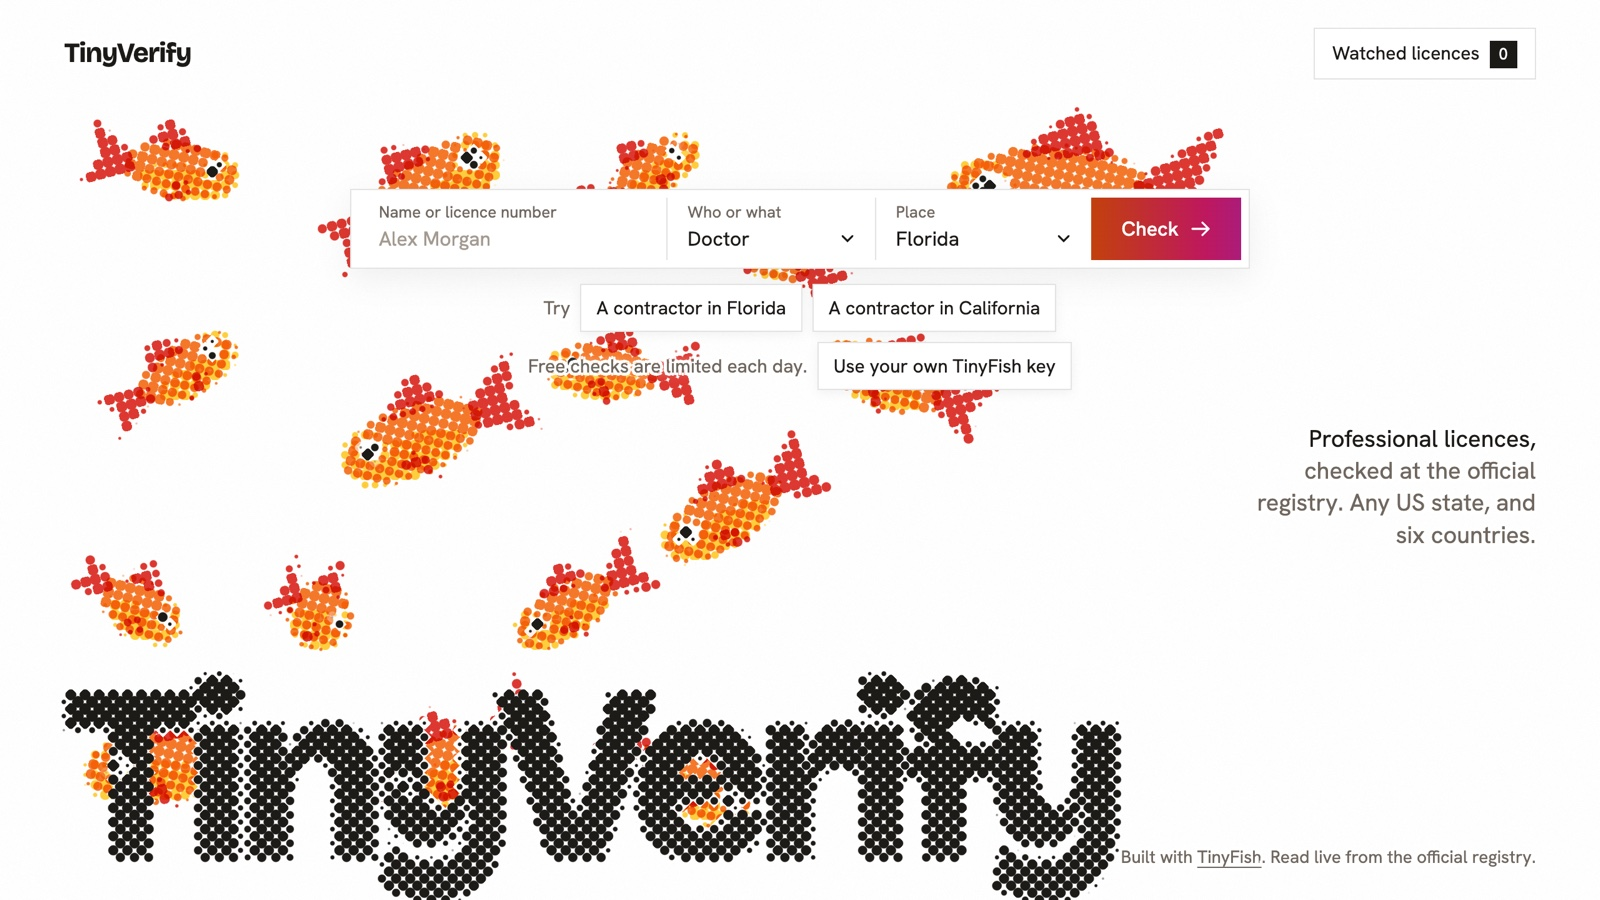
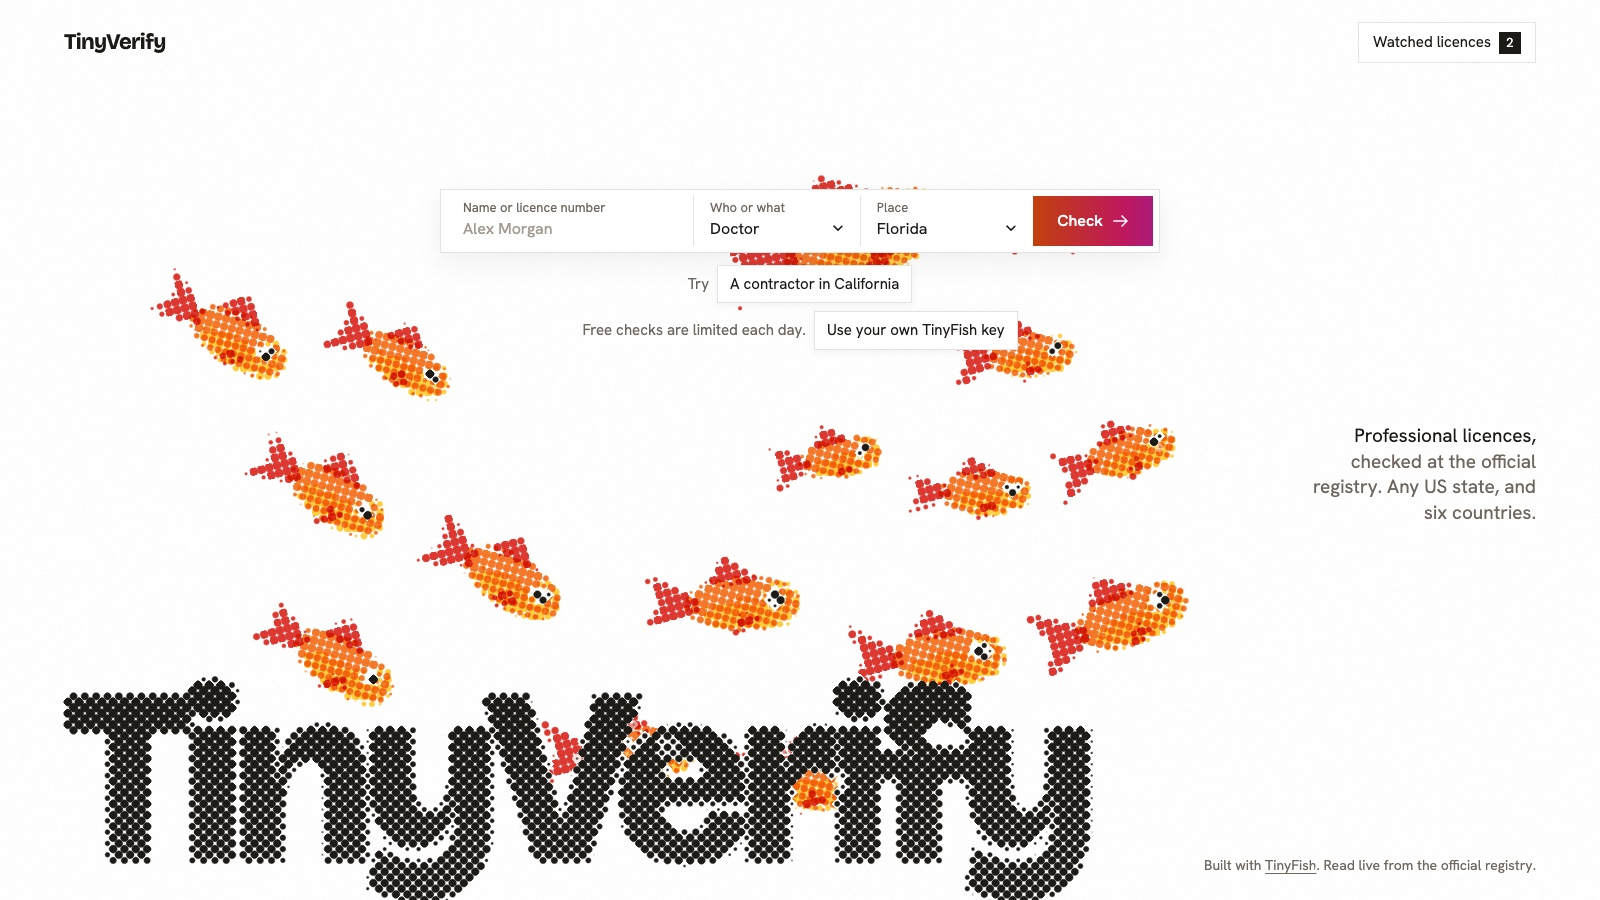
Show only the California example on the demo page
Florida issues a contractor licence to a person, with the company as
a trading name. Pressing the Florida example therefore put a named
licence holder in front of every visitor. The page now offers one
example, a California roofing company.

The two Florida contractor records leave src/golden.json and are read
from PRIVATE_GOLDEN with the health records, so the fl-dbpr canary
still runs. golden.json now holds one record, a company's.

The canary test for a registry with no record removes the secret
itself, because a local .dev.vars can set it. The README picture is
retaken from the page as it now stands.

diff --git a/tests/page.test.ts b/tests/page.test.ts
@@ -12,10 +12,10 @@ const goldenNumber = (registry: string, prefix: string): string =>
   golden.records.find(
     (r) => r.registry === registry && r.licence_number.startsWith(prefix),
   )?.licence_number ?? "";
-// Florida health licences belong to people, so the tests use made-up numbers of the same shape.
+// Florida licences belong to people, so the tests use made-up numbers of the same shape.
 const DOCTOR = "ME000000";
 const NURSE = "RN0000000";
-const CONTRACTOR = goldenNumber("fl-dbpr", "CBC");
+const CONTRACTOR = "CBC0000000";
 const CA_NUMBER = goldenNumber("ca-cslb", "");
 
 async function load(): Promise<string> {
@@ -97,17 +97,22 @@ const at = (y: number, m: number, d: number, h: number, min: number): string =>
   new Date(y, m, d, h, min).toISOString();
 
 describe("the examples", () => {
-  it("are two golden business records, each with its profession and place", () => {
-    const numbers = golden.records.map((r) => r.licence_number);
-    expect(EXAMPLES.map((e) => e.number)).toEqual([CONTRACTOR, CA_NUMBER]);
-    expect(EXAMPLES.map((e) => e.kind)).toEqual(["contractor", "contractor"]);
-    expect(EXAMPLES.map((e) => e.place)).toEqual(["US-FL", "US-CA"]);
-    for (const e of EXAMPLES) expect(numbers).toContain(e.number);
+  it("are one golden record of a company, with its profession and place", () => {
+    expect(EXAMPLES).toEqual([
+      {
+        label: "A contractor in California",
+        number: CA_NUMBER,
+        kind: "contractor",
+        place: "US-CA",
+      },
+    ]);
+    expect(golden.records.map((r) => r.licence_number)).toContain(CA_NUMBER);
   });
 
   it("never include a licence that belongs to a person", () => {
-    expect(golden.records.map((r) => r.registry)).not.toContain("fl-mqa");
-    for (const e of EXAMPLES) expect(e.kind).toBe("contractor");
+    // Both Florida registers issue licences to people, so neither has a committed record or an example.
+    expect(golden.records.map((r) => r.registry)).toEqual(["ca-cslb"]);
+    expect(EXAMPLES.map((e) => e.place)).not.toContain("US-FL");
   });
 });
 
@@ -848,7 +853,7 @@ describe("GET /", () => {
   it("holds the three examples as buttons, not as underlined words", async () => {
     const html = await load();
     expect(html).toContain(
-      '<div class="under" id="eg"><span>Try</span><button type="button" class="chip" id="eg0">A contractor in Florida</button><button type="button" class="chip" id="eg1">A contractor in California</button></div>',
+      '<div class="under" id="eg"><span>Try</span><button type="button" class="chip" id="eg0">A contractor in California</button></div>',
     );
     const css = styleOf(html);
     expect(css).toMatch(
@@ -1323,15 +1328,9 @@ describe("asking a question", () => {
   it("fills the three fields from an example press and checks at once", async () => {
     const page = mount(await load(), noop);
     await page.click("eg0");
-    await page.click("eg1");
     const bodies = page.verifyCalls().map((c) => c.body);
+    expect(bodies).toHaveLength(1);
     expect(bodies[0]).toEqual({
-      record_type: "contractor",
-      jurisdiction: "US-FL",
-      licence_number: CONTRACTOR,
-      include_complaints: true,
-    });
-    expect(bodies[1]).toEqual({
       record_type: "contractor",
       jurisdiction: "US-CA",
       licence_number: CA_NUMBER,

diff --git a/tests/canary.test.ts b/tests/canary.test.ts
@@ -18,8 +18,8 @@ import {
 
 const db = env.DB;
 
-// Florida health licences belong to people, so none is committed. The service reads its fl-mqa canary records
-// from the PRIVATE_GOLDEN secret. These two are made up, and the scrubbed sample page reads exactly as the first.
+// Florida licences belong to people, so none is committed. The service reads its Florida canary records from the
+// PRIVATE_GOLDEN secret. These two are made up, and the scrubbed sample page reads exactly as the first.
 const MQA_LINK =
   "https://mqa-internet.doh.state.fl.us/MQASearchServices/HealthCareProviders/LicenseVerification";
 const MQA_EXPECTED = {
@@ -209,11 +209,7 @@ describe("golden records", () => {
     expect(golden._note).toContain(
       "Records of individuals are kept out of the repository",
     );
-    expect(golden.records.map((r) => r.registry)).toEqual([
-      "fl-dbpr",
-      "fl-dbpr",
-      "ca-cslb",
-    ]);
+    expect(golden.records.map((r) => r.registry)).toEqual(["ca-cslb"]);
 
     for (const record of golden.records) {
       expect(
@@ -221,9 +217,6 @@ describe("golden records", () => {
         record.licence_number,
       ).toEqual(["expires", "licence_number", "status", "status_raw"]);
     }
-
-    const dbpr = golden.records.find((r) => r.registry === "fl-dbpr");
-    expect(dbpr?.licence_number).toBe("CCC1335434");
 
     const cslb = golden.records.find((r) => r.registry === "ca-cslb");
     expect(cslb?.licence_number).toBe("1155041");
@@ -233,8 +226,11 @@ describe("golden records", () => {
 
 describe("records kept in PRIVATE_GOLDEN", () => {
   it("gives a registry no canary row when it has no record, committed or private", async () => {
-    await runAll(env, db, fetchClient(MQA_OK), EVEN_DAY);
+    // A local .dev.vars may set the secret, so it is taken out here.
+    const noSecret = { ...env, PRIVATE_GOLDEN: undefined };
+    await runAll(noSecret, db, fetchClient(MQA_OK), EVEN_DAY);
     expect(await latestFor("fl-mqa")).toBeUndefined();
+    expect(await latestFor("fl-dbpr")).toBeUndefined();
   });
 
   it("skips the secret when it is not valid JSON, and still checks the committed records", async () => {
@@ -245,7 +241,10 @@ describe("records kept in PRIVATE_GOLDEN", () => {
       EVEN_DAY,
     );
     expect(await latestFor("fl-mqa")).toBeUndefined();
-    expect(await latestFor("fl-dbpr")).toBeDefined();
+    const jobs = await queuedJobs();
+    expect(jobs.map((j) => JSON.parse(j.payload_json).registry)).toEqual([
+      "ca-cslb",
+    ]);
   });
 });
 

diff --git a/src/web/page.ts b/src/web/page.ts
@@ -18,8 +18,9 @@ import { SCENE_SOURCE } from "./scene";
 import "../registries/index";
 
 /**
- * The example presses check golden records (src/golden.json), found by registry and leading letters. They are
- * business records, so the page never puts a person's licence in front of a visitor who did not ask for it.
+ * The example press checks a golden record (src/golden.json), found by registry and leading letters. It is a
+ * company's record, so the page never puts a person's licence in front of a visitor who did not ask for it.
+ * Florida issues a contractor licence to a person, which is why no Florida record is an example.
  */
 const goldenNumber = (registry: string, prefix: string): string => {
   const found = golden.records.find(
@@ -38,12 +39,6 @@ export const EXAMPLES: {
   kind: RecordType;
   place: Jurisdiction;
 }[] = [
-  {
-    label: "A contractor in Florida",
-    number: goldenNumber("fl-dbpr", "CBC"),
-    kind: "contractor",
-    place: "US-FL",
-  },
   {
     label: "A contractor in California",
     number: goldenNumber("ca-cslb", ""),
